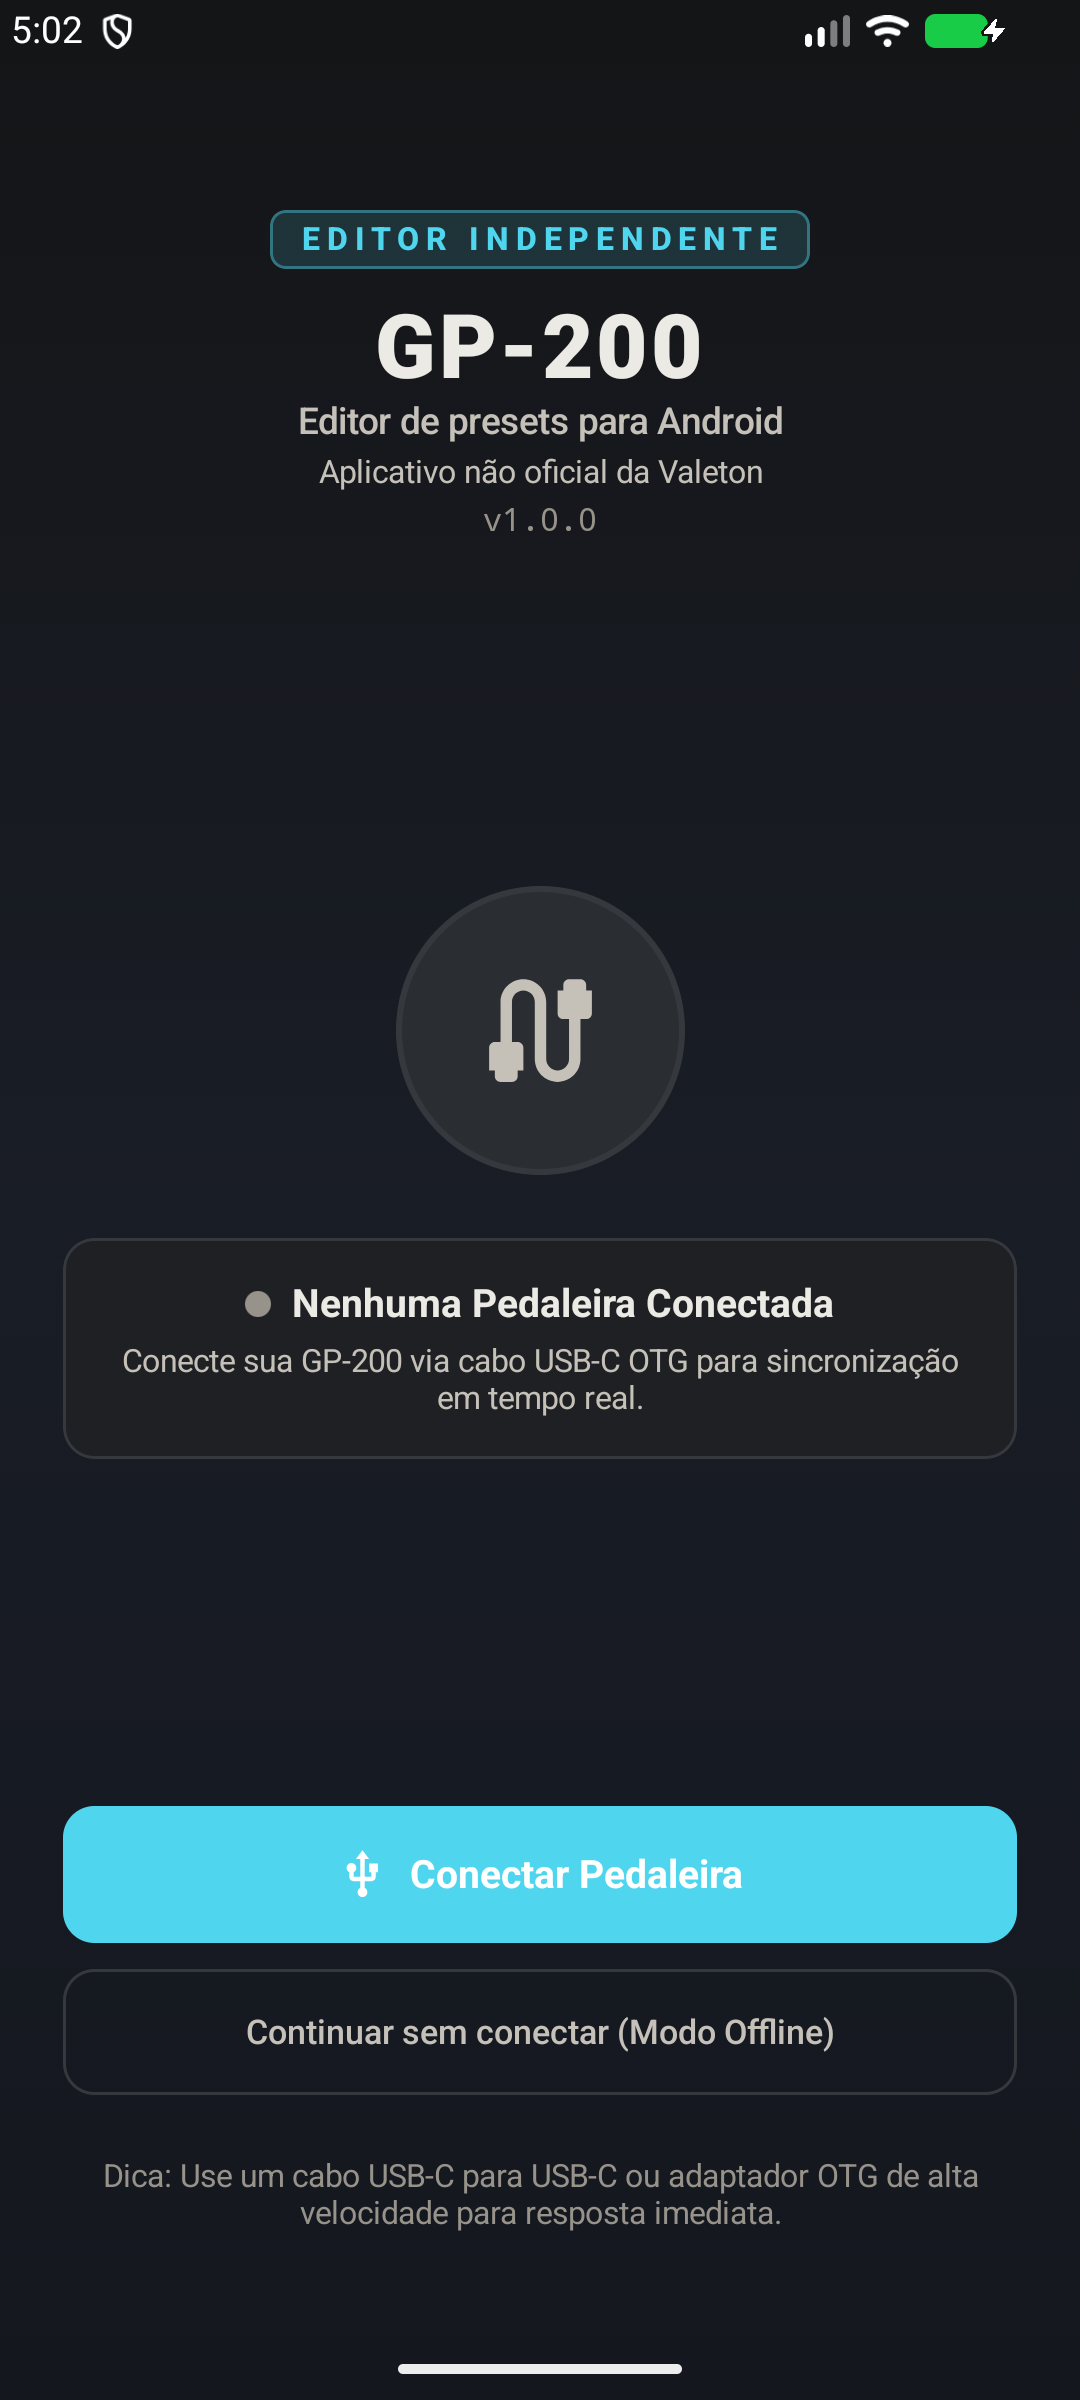
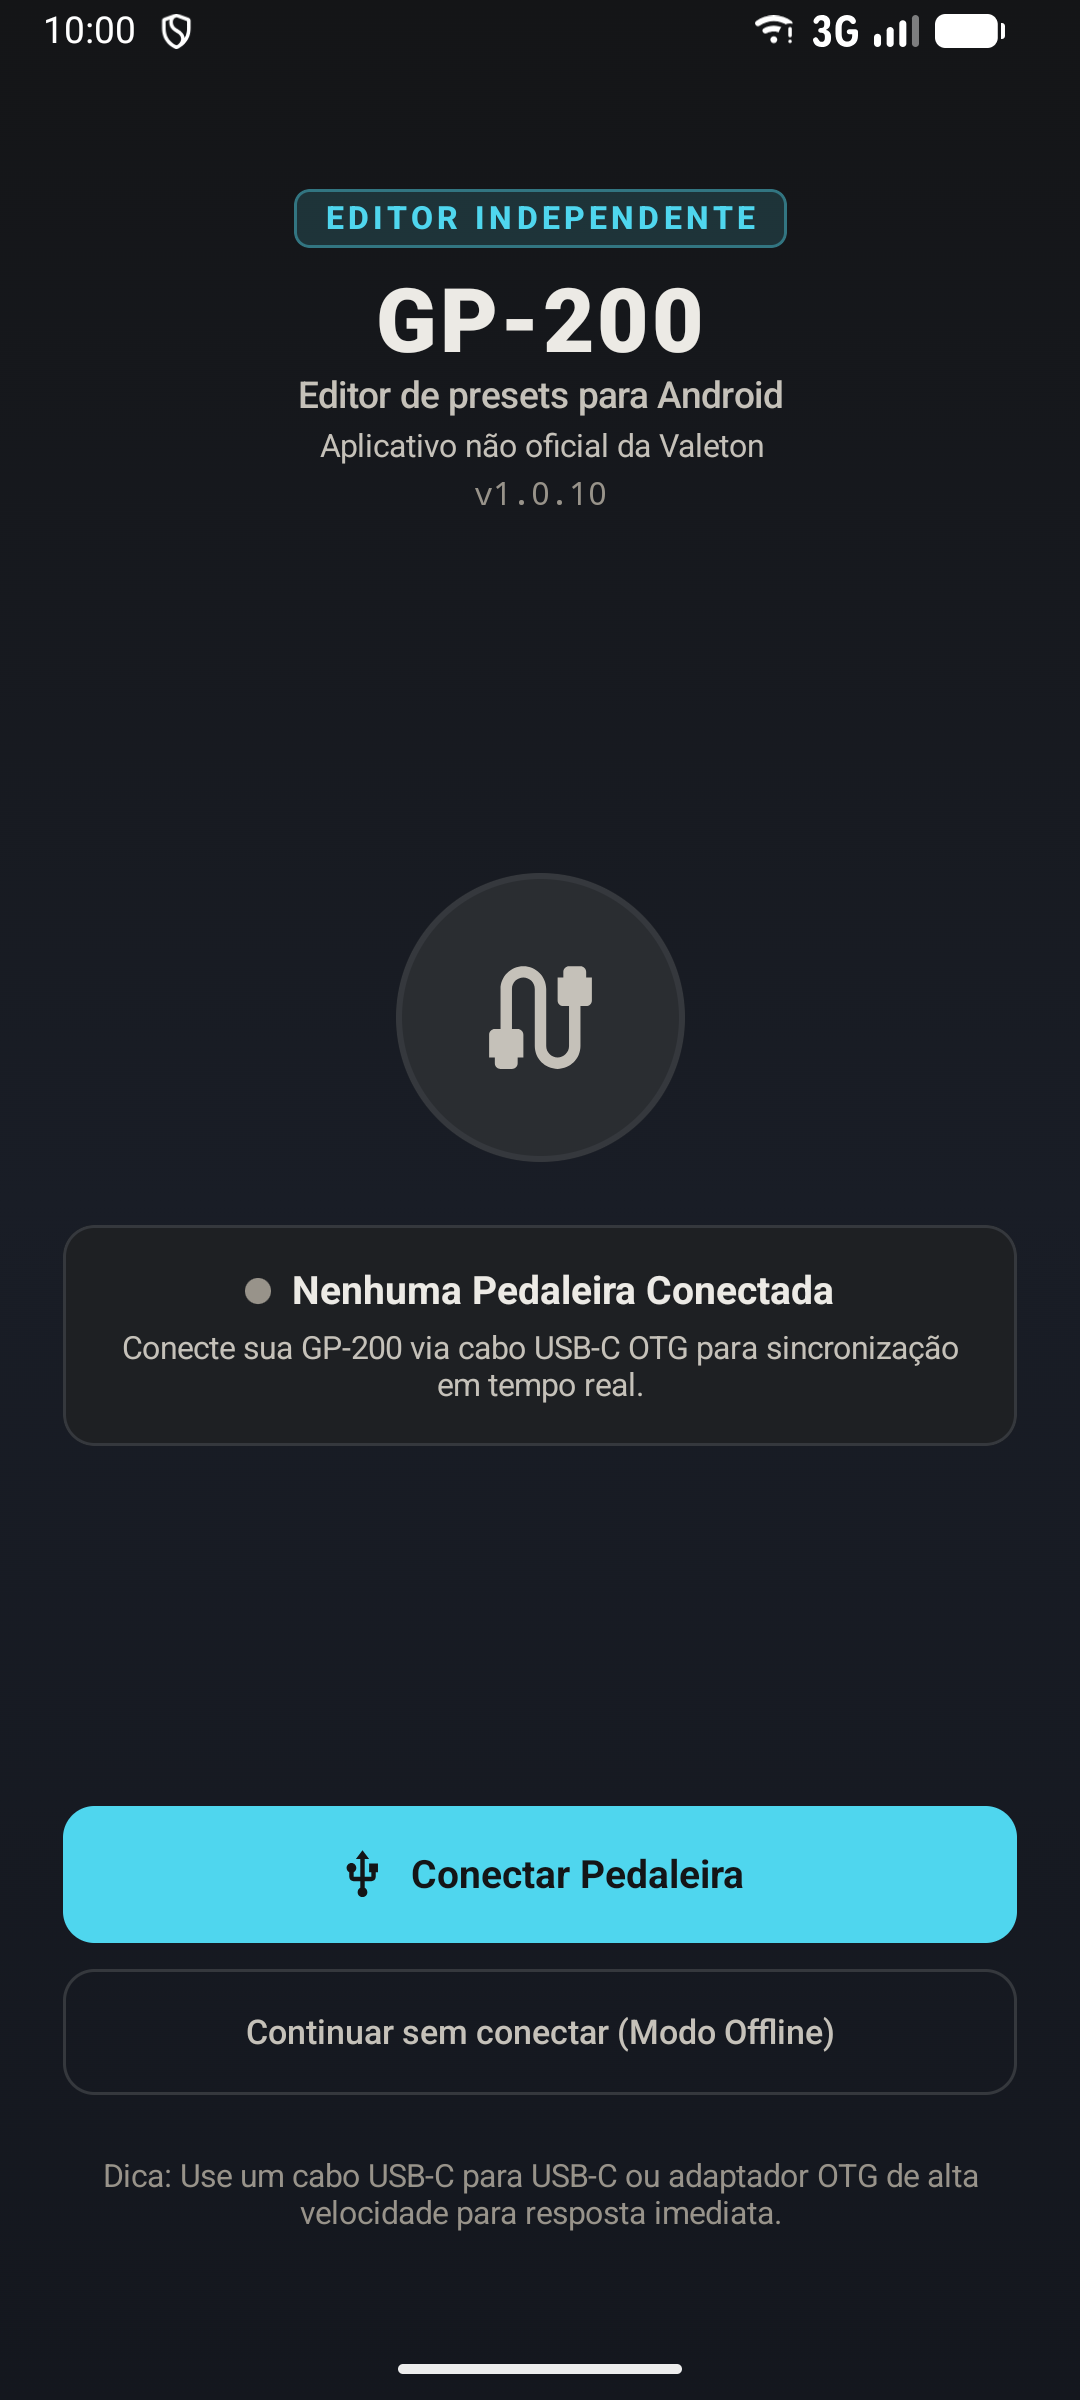
docs: refresh screenshots for the 1.0.10 interface
Recapture the README screenshots that still showed the old interface
and regenerate the Play Store phone graphics from them.

diff --git a/README.md b/README.md
@@ -26,7 +26,7 @@ Este projeto não é um produto oficial da Valeton e não declara afiliação ou
     <td colspan="2" align="center"><img src="docs/images/sobre.png" width="260" alt="Aba Sobre com ícone próprio, versão do app, aviso de aplicativo não oficial da Valeton e créditos"><br><b>Sobre</b><br>Versão, aviso de independência, créditos e código-fonte.</td>
   </tr>
   <tr>
-    <td colspan="3" align="center"><img src="docs/images/selecao-favoritos.png" width="300" alt="Seletor de efeitos com a aba Favoritos visível e um amplificador marcado"><br><b>Efeitos favoritos</b><br>Marque modelos com a estrela e filtre os favoritos do bloco atual.</td>
+    <td colspan="3" align="center"><img src="docs/images/selecao-favoritos.png" width="300" alt="Seletor de efeitos com a aba Favoritos visível e dois amplificadores marcados"><br><b>Efeitos favoritos</b><br>Marque modelos com a estrela e filtre os favoritos do bloco atual.</td>
   </tr>
   <tr>
     <td align="center"><img src="docs/images/cadeia-arrastar.png" width="260" alt="Cadeia de sinal com o card do B-Wah destacado ao ser segurado pela alça e os marcadores FX Send e FX Return com setas"><br><b>Reordenar a cadeia</b><br>Segure a alça e arraste o card; mova o FX Send e o FX Return com as setas.</td>
